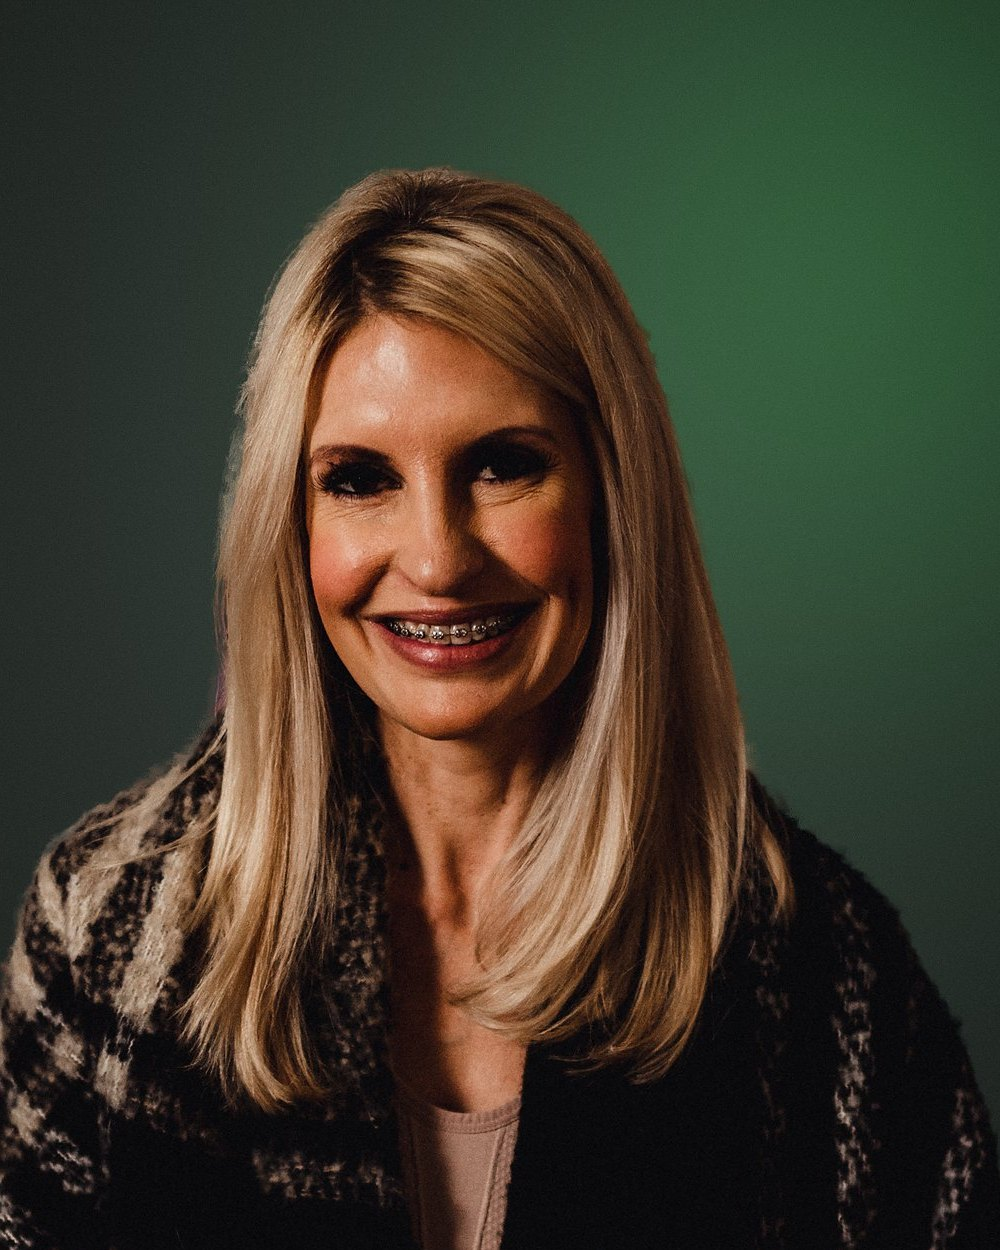
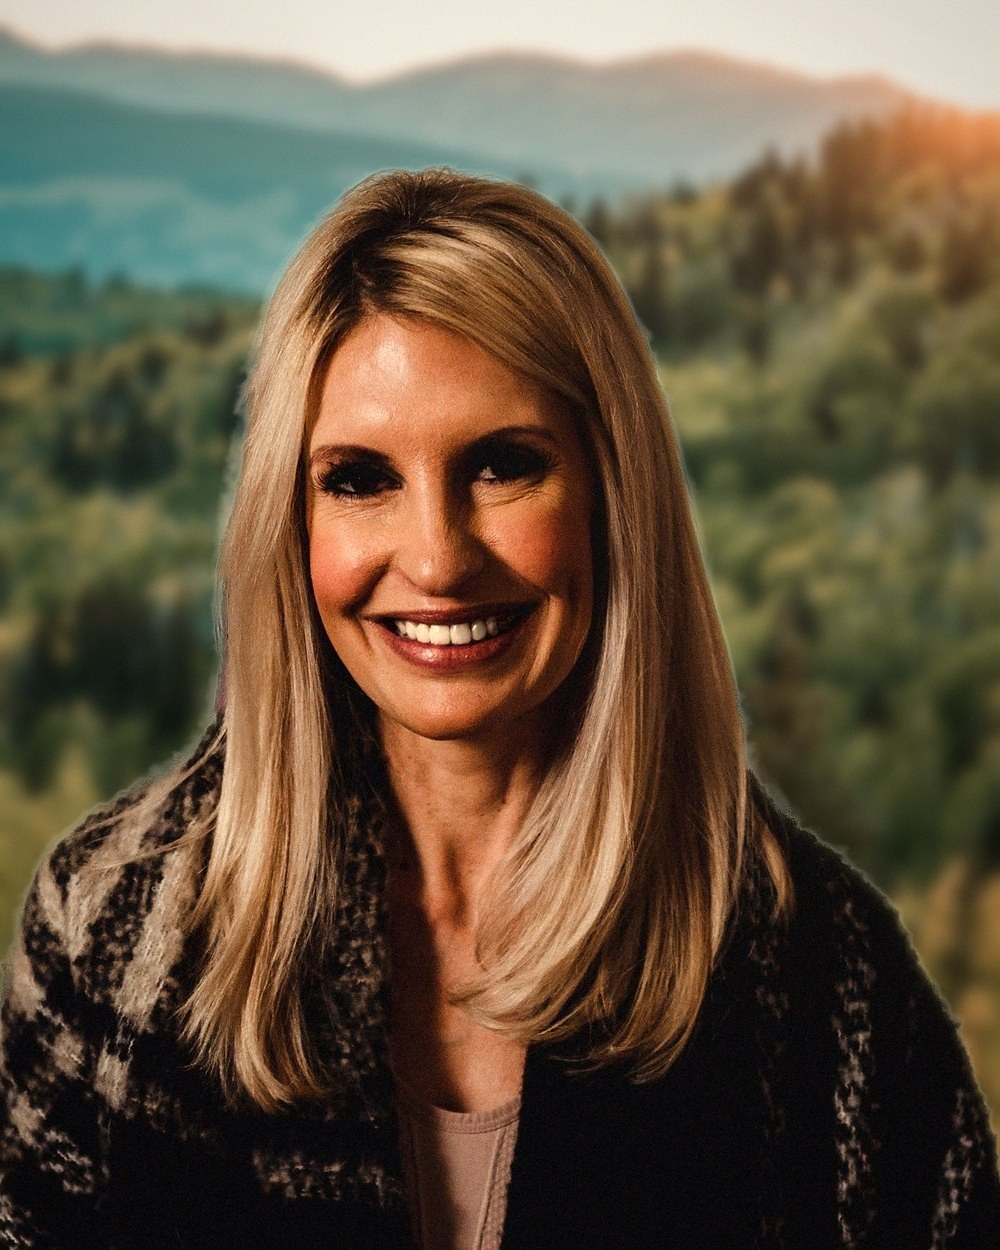
Allison headshots: braces removed and placed in a Colorado outdoor setting
Teeth retouched with Kling on a mouth-only crop and blended back; backdrops
generated with Kling (no people) and composited locally with matched light,
depth of field and a unified grade.

Claude-Session: https://claude.ai/code/session_01R9i2jCaQPGGbe7Ut1ZW52T

diff --git a/realto-partners/README.md b/realto-partners/README.md
@@ -35,7 +35,7 @@ All photos are already in `images/`, cropped and sized for the web (about 3 MB t
 | `dan-speaking.jpg` | Portrait crop of `.../DG-Website/Images/Dan-chair-den.jpg` | Meet Dan, podcast art, host card |
 | `dan-wide.jpg` | `.../DG-Website/Images/Dan-chair-den.jpg` | Gallery |
 | `dan-candid.jpg` | `/Acendant Title/Pen Bag/Dan Pic.jpg` | Gallery, photo strip |
-| `allison.jpg`, `allison-2.jpg` | Business headshots made from `/Allison Gomer/Megan Sawaya Photography/.../allisong-32.jpg`: background removed with an AI model and placed on a ReAlto green studio backdrop (`allison.jpg`) and a light gray studio backdrop (`allison-2.jpg`), cropped head and shoulders. Her face is unedited. | Allison portraits, host cards, podcast art, photo strip |
+| `allison.jpg`, `allison-2.jpg` | Built from `/Allison Gomer/Megan Sawaya Photography/.../allisong-32.jpg`: background removed with a local AI model, braces removed with Kling (mouth area only, blended back), and placed into Colorado foothills backdrops generated with Kling (no people in the backdrops). Her face is otherwise unedited. | Allison portraits, host cards, podcast art, photo strip |
 | `logo-white.png`, `logo.png` | `/Realto Partners/Marketing Info/ReAlto Partners Final Logo_White Transparent.png` and `...Final Logo Transparent.png` | Header and footer logo, schema logo |
 | `favicon.png` | `/Realto Partners/Marketing Info/favicon2.png` | Browser tab icon |
 | `resilient-logo.png`, `podcast-cover.jpg` | The Resilient Real Estate Agent YouTube channel logo and banner | Podcast badge and share image |
